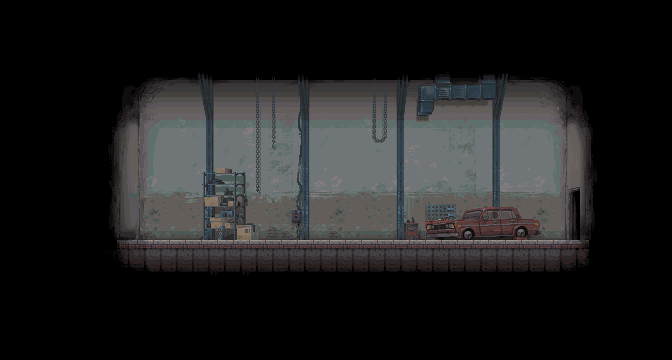
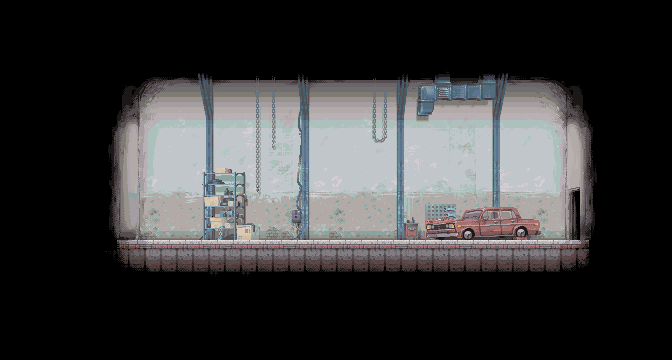
204
보스 추가중 텍스처 오류확인 위한 커밋

diff --git a/Engine_SOURCE/BossStage1.cpp b/Engine_SOURCE/BossStage1.cpp
@@ -1,0 +1,137 @@
+#include "BossStage1.h"
+namespace dru
+{
+	CBossStage1::CBossStage1()
+		: mKissyface(nullptr)
+		, mKissyfaceDefaultPos(Vector3::Zero)
+	{
+	}
+
+	CBossStage1::~CBossStage1()
+	{
+	}
+
+	void CBossStage1::InitStage()
+	{
+		/////////////////////////////Obj Add /////////////////////////////////////
+		{
+
+			mStageBackground = object::Instantiate<CBackground>(eLayerType::BackGround, L"BossStage1");
+			CSpriteRenderer* SpriteRenderer = mStageBackground->AddComponent<CSpriteRenderer>(eComponentType::Renderer);
+
+			std::shared_ptr<CMaterial> Material = std::make_shared<CMaterial>(L"bossStage1", L"SpriteShader");
+			CResources::Insert<CMaterial>(L"bossStage1Mat", Material);
+			SpriteRenderer->SetMaterial(Material);
+			mStageBackground->SetPos(Vector3(-0.5f, -0.0625f, 5.f));
+			mStageBackground->SetScale(Vector3(7.9f, 7.9f, 1.f));
+		}
+
+		CCollider2D* coll = renderer::mainCamera->GetOwner()->GetComponent<CCollider2D>();
+		coll->SetScale(Vector2(GetDevice()->ViewportWidth() / 102.125f, GetDevice()->ViewportHeight() / 102.5f));
+
+		mPlayerDefaultPos = Vector3(0.f, 0.f, 3.f);
+		mKissyfaceDefaultPos = Vector3(3.f, 0.f, 3.f);
+
+		mStageState = eStageState::Ready;
+
+		mEnemyCount = 1;
+
+		AddStartingLiveObjects();
+
+		CreateOutWall();
+		CreateFirstFloor();
+	}
+
+	void CBossStage1::LoadinReady()
+	{
+	}
+
+	void CBossStage1::Update()
+	{
+		CStage::Update();
+	}
+
+	void CBossStage1::Exit()
+	{
+		CStage::Exit();
+	}
+
+	void CBossStage1::NotReadyOperate()
+	{
+		CStage::NotReadyOperate();
+	}
+
+	void CBossStage1::ReadyOperate()
+	{
+		CStage::ReadyOperate();
+	}
+
+	void CBossStage1::ReadyEndOperate()
+	{
+		CStage::ReadyEndOperate();
+	}
+
+	void CBossStage1::LoadUIOperate()
+	{
+		CStage::LoadUIOperate();
+	}
+
+	void CBossStage1::LoadEndOperate()
+	{
+		CStage::LoadEndOperate();
+	}
+
+	void CBossStage1::Reset()
+	{
+		mPlayer->SetPos(mPlayerDefaultPos);
+		CPlayerScript* playerScript = mPlayer->GetScript<CPlayerScript>();
+		playerScript->Reset();
+
+
+		CStage::Reset();
+	}
+
+	void CBossStage1::AddStartingLiveObjects()
+	{
+		mKissyface = object::Instantiate<CGrunt>(eLayerType::Monster, L"Kissyface");
+		mKissyface->SetPos(mKissyfaceDefaultPos);
+		mRewindObjects.push_back(mKissyface);
+		mKissyface->SetLeft();
+
+		CStage::AddStartingLiveObjects();
+	}
+
+	void CBossStage1::CreateOutWall()
+	{
+		{
+			COutWallSide* LeftOutWall = object::Instantiate<COutWallSide>(eLayerType::Platforms, L"LeftOutwall");
+			LeftOutWall->SetPos(Vector3(-8.f, 0.f, 4.999f));
+			LeftOutWall->SetColliderScale(Vector2(0.5f, 30.f));
+		}
+		{
+			COutWallSide* RightOutWall = object::Instantiate<COutWallSide>(eLayerType::Platforms, L"RightOutwall");
+			RightOutWall->SetPos(Vector3(8.f, 0.f, 4.999f));
+			RightOutWall->SetColliderScale(Vector2(0.5f, 30.f));
+		}
+		{
+			COutWall* UpOutWall = object::Instantiate<COutWall>(eLayerType::Platforms, L"UpOutWall");
+			UpOutWall->SetPos(Vector3(0.f, -5.f, 4.999f));
+			UpOutWall->SetColliderScale(Vector2(20.f, 0.5f));
+		}
+		{
+			COutWall* DownOutWall = object::Instantiate<COutWall>(eLayerType::Platforms, L"DownOutWall");
+			DownOutWall->SetPos(Vector3(0.f, 3.85f, 4.999f));
+			DownOutWall->SetColliderScale(Vector2(20.f, 0.5f));
+		}
+	}
+
+	void CBossStage1::CreateFirstFloor()
+	{
+		{
+			CFloor* Floor = object::Instantiate<CFloor>(eLayerType::Platforms, L"floor");
+			Floor->SetPos(Vector3(0.f, -2.2f, 3.f));
+			Floor->SetColliderScale({ 20.f, 0.4f });
+		}
+	}
+
+}

diff --git a/Engine_SOURCE/Kissyface.cpp b/Engine_SOURCE/Kissyface.cpp
@@ -13,15 +13,9 @@ namespace dru
 		SpriteRenderer->SetMaterial(Material);
 
 		CAnimator* mAnimator = this->AddComponent<CAnimator>(eComponentType::Animator);
-		mAnimator->Create(L"Grunt_Idle", Material->GetTexture(), { 4480.f, 0.f }, { 64.f, 64.f }, Vector2::Zero, 8, { 50.f, 50.f }, 0.1f);
-		mAnimator->Create(L"Grunt_Patrol", Material->GetTexture(), { 6656.f, 0.f }, { 64.f, 64.f }, Vector2::Zero, 10, { 50.f, 50.f }, 0.1f);
-		mAnimator->Create(L"Grunt_Run", Material->GetTexture(), { 6016.f, 0.f }, { 64.f, 64.f }, Vector2::Zero, 10, { 50.f, 50.f }, 0.1f);
-		mAnimator->Create(L"Grunt_Attack", Material->GetTexture(), { 0.f, 0.f }, { 64.f, 64.f }, Vector2::Zero, 8, { 50.f, 50.f }, 0.1f);
-		mAnimator->Create(L"Grunt_DeadAirUp", Material->GetTexture(), { 3328.f, 0.f }, { 64.f, 64.f }, Vector2::Zero, 1, { 50.f, 50.f }, 0.1f);
-		mAnimator->Create(L"Grunt_DeadAirDown", Material->GetTexture(), { 3392.f, 0.f }, { 64.f, 64.f }, Vector2::Zero, 1, { 50.f, 50.f }, 0.1f);
-		mAnimator->Create(L"Grunt_DeadGround", Material->GetTexture(), { 3328.f, 0.f }, { 64.f, 64.f }, Vector2::Zero, 18, { 50.f, 50.f }, 0.1f);
+		mAnimator->Create(L"kissyface_Idle", Material->GetTexture(), { 4480.f, 0.f }, { 64.f, 64.f }, Vector2::Zero, 8, { 50.f, 50.f }, 0.1f);
 
-		mAnimator->Play(L"Grunt_Idle");
+		mAnimator->Play(L"kissyface_Idle");
 
 //		this->AddComponent<CGruntScript>(eComponentType::Script)->Initialize();
 	}

diff --git a/Engine_SOURCE/BossStage2.cpp b/Engine_SOURCE/BossStage2.cpp
@@ -11,6 +11,26 @@ namespace dru
 
 	void CBossStage2::InitStage()
 	{
+		/////////////////////////////Obj Add /////////////////////////////////////
+		{
+			
+			mStageBackground = object::Instantiate<CBackground>(eLayerType::BackGround, L"Stage2");
+			CSpriteRenderer* SpriteRenderer = mStageBackground->AddComponent<CSpriteRenderer>(eComponentType::Renderer);
+
+			std::shared_ptr<CMaterial> Material = std::make_shared<CMaterial>(L"stage2", L"SpriteShader");
+			CResources::Insert<CMaterial>(L"Stage2", Material);
+			SpriteRenderer->SetMaterial(Material);
+			mStageBackground->SetPos(Vector3(2.25f, 0.f, 5.f));
+			mStageBackground->SetScale(Vector3(1.f, 1.f, 1.f));
+		}
+
+
+		mStageState = eStageState::Ready;
+
+		AddStartingLiveObjects();
+
+		CreateOutWall();
+		CreateFirstFloor();
 	}
 
 	void CBossStage2::LoadinReady()
@@ -45,15 +65,20 @@ namespace dru
 	{
 	}
 
-	void CBossStage2::ClearOperate()
-	{
-	}
 
 	void CBossStage2::Reset()
 	{
 	}
 
 	void CBossStage2::AddStartingLiveObjects()
+	{
+	}
+
+	void CBossStage2::CreateOutWall()
+	{
+	}
+
+	void CBossStage2::CreateFirstFloor()
 	{
 	}
 

diff --git a/Engine_SOURCE/BossStage1.h b/Engine_SOURCE/BossStage1.h
@@ -20,10 +20,16 @@ namespace dru
         virtual void ReadyEndOperate();
         virtual void LoadUIOperate();
         virtual void LoadEndOperate();
-        void         ClearOperate();
 
         virtual void Reset();
         virtual void AddStartingLiveObjects();
+
+        void CreateOutWall();
+        void CreateFirstFloor();
+
+    private:
+        CMonster* mKissyface;
+        Vector3 mKissyfaceDefaultPos;
     };
 }
 

diff --git a/Engine_SOURCE/Stage.cpp b/Engine_SOURCE/Stage.cpp
@@ -7,6 +7,7 @@ namespace dru
 
 	CStage::CStage()
 		: mStageState(eStageState::NotReady)
+		, mStageBackground(nullptr)
 		, mbClear(false)
 		, mPostProcess_Rewind(nullptr)
 		, mPostProcess_Replay(nullptr)
@@ -253,7 +254,6 @@ namespace dru
 	{
 		CreatePostProcess_Rewind();
 		CreatePostProcess_Replay();
-
 
 		mPlayer->GetComponent<CRigidBody>()->SetMaxVelocity(Vector3(5.f, 7.f, 0.f));
 		LoadinReady();

diff --git a/Engine_SOURCE/Texture.cpp b/Engine_SOURCE/Texture.cpp
@@ -134,7 +134,7 @@ namespace dru::graphics
 	HRESULT CTexture::Load(const std::wstring& path)
 	{
 		std::filesystem::path parentPath = std::filesystem::current_path().parent_path();
-		std::wstring fullPath = parentPath.wstring() + L"\\..\\Resources\\" + path;
+		std::wstring fullPath = parentPath.wstring() + L"/../Resources/" + path;
 			
 
 		wchar_t szExtension[256] = {};

diff --git a/Engine_SOURCE/Renderer.cpp b/Engine_SOURCE/Renderer.cpp
@@ -790,7 +790,6 @@ namespace dru::renderer
 			std::shared_ptr<CMaterial> Material = std::make_shared<CMaterial>(L"plant", L"SpriteShader");
 			CResources::Insert<CMaterial>(L"plantMat", Material);
 		}
-
 		{
 			std::shared_ptr<CMaterial> Material = std::make_shared<CMaterial>(L"cop", L"SpriteShader");
 			CResources::Insert<CMaterial>(L"CopMat", Material);

diff --git a/Engine_SOURCE/BossStage2.h b/Engine_SOURCE/BossStage2.h
@@ -21,10 +21,12 @@ namespace dru
         virtual void ReadyEndOperate();
         virtual void LoadUIOperate();
         virtual void LoadEndOperate();
-        void         ClearOperate();
 
         virtual void Reset();
         virtual void AddStartingLiveObjects();
+
+        void CreateOutWall();
+        void CreateFirstFloor();
     };
 
 }

diff --git a/Engine_SOURCE/StageTutorial.h b/Engine_SOURCE/StageTutorial.h
@@ -72,7 +72,6 @@ namespace dru
         CGameObj*    mMaskTarget;
         CGameObj*    mCamTarget;
 
-        CBackground* mStageBackground;
         CBackground* mScreenMask;
         CGameObj* mMask;
 
